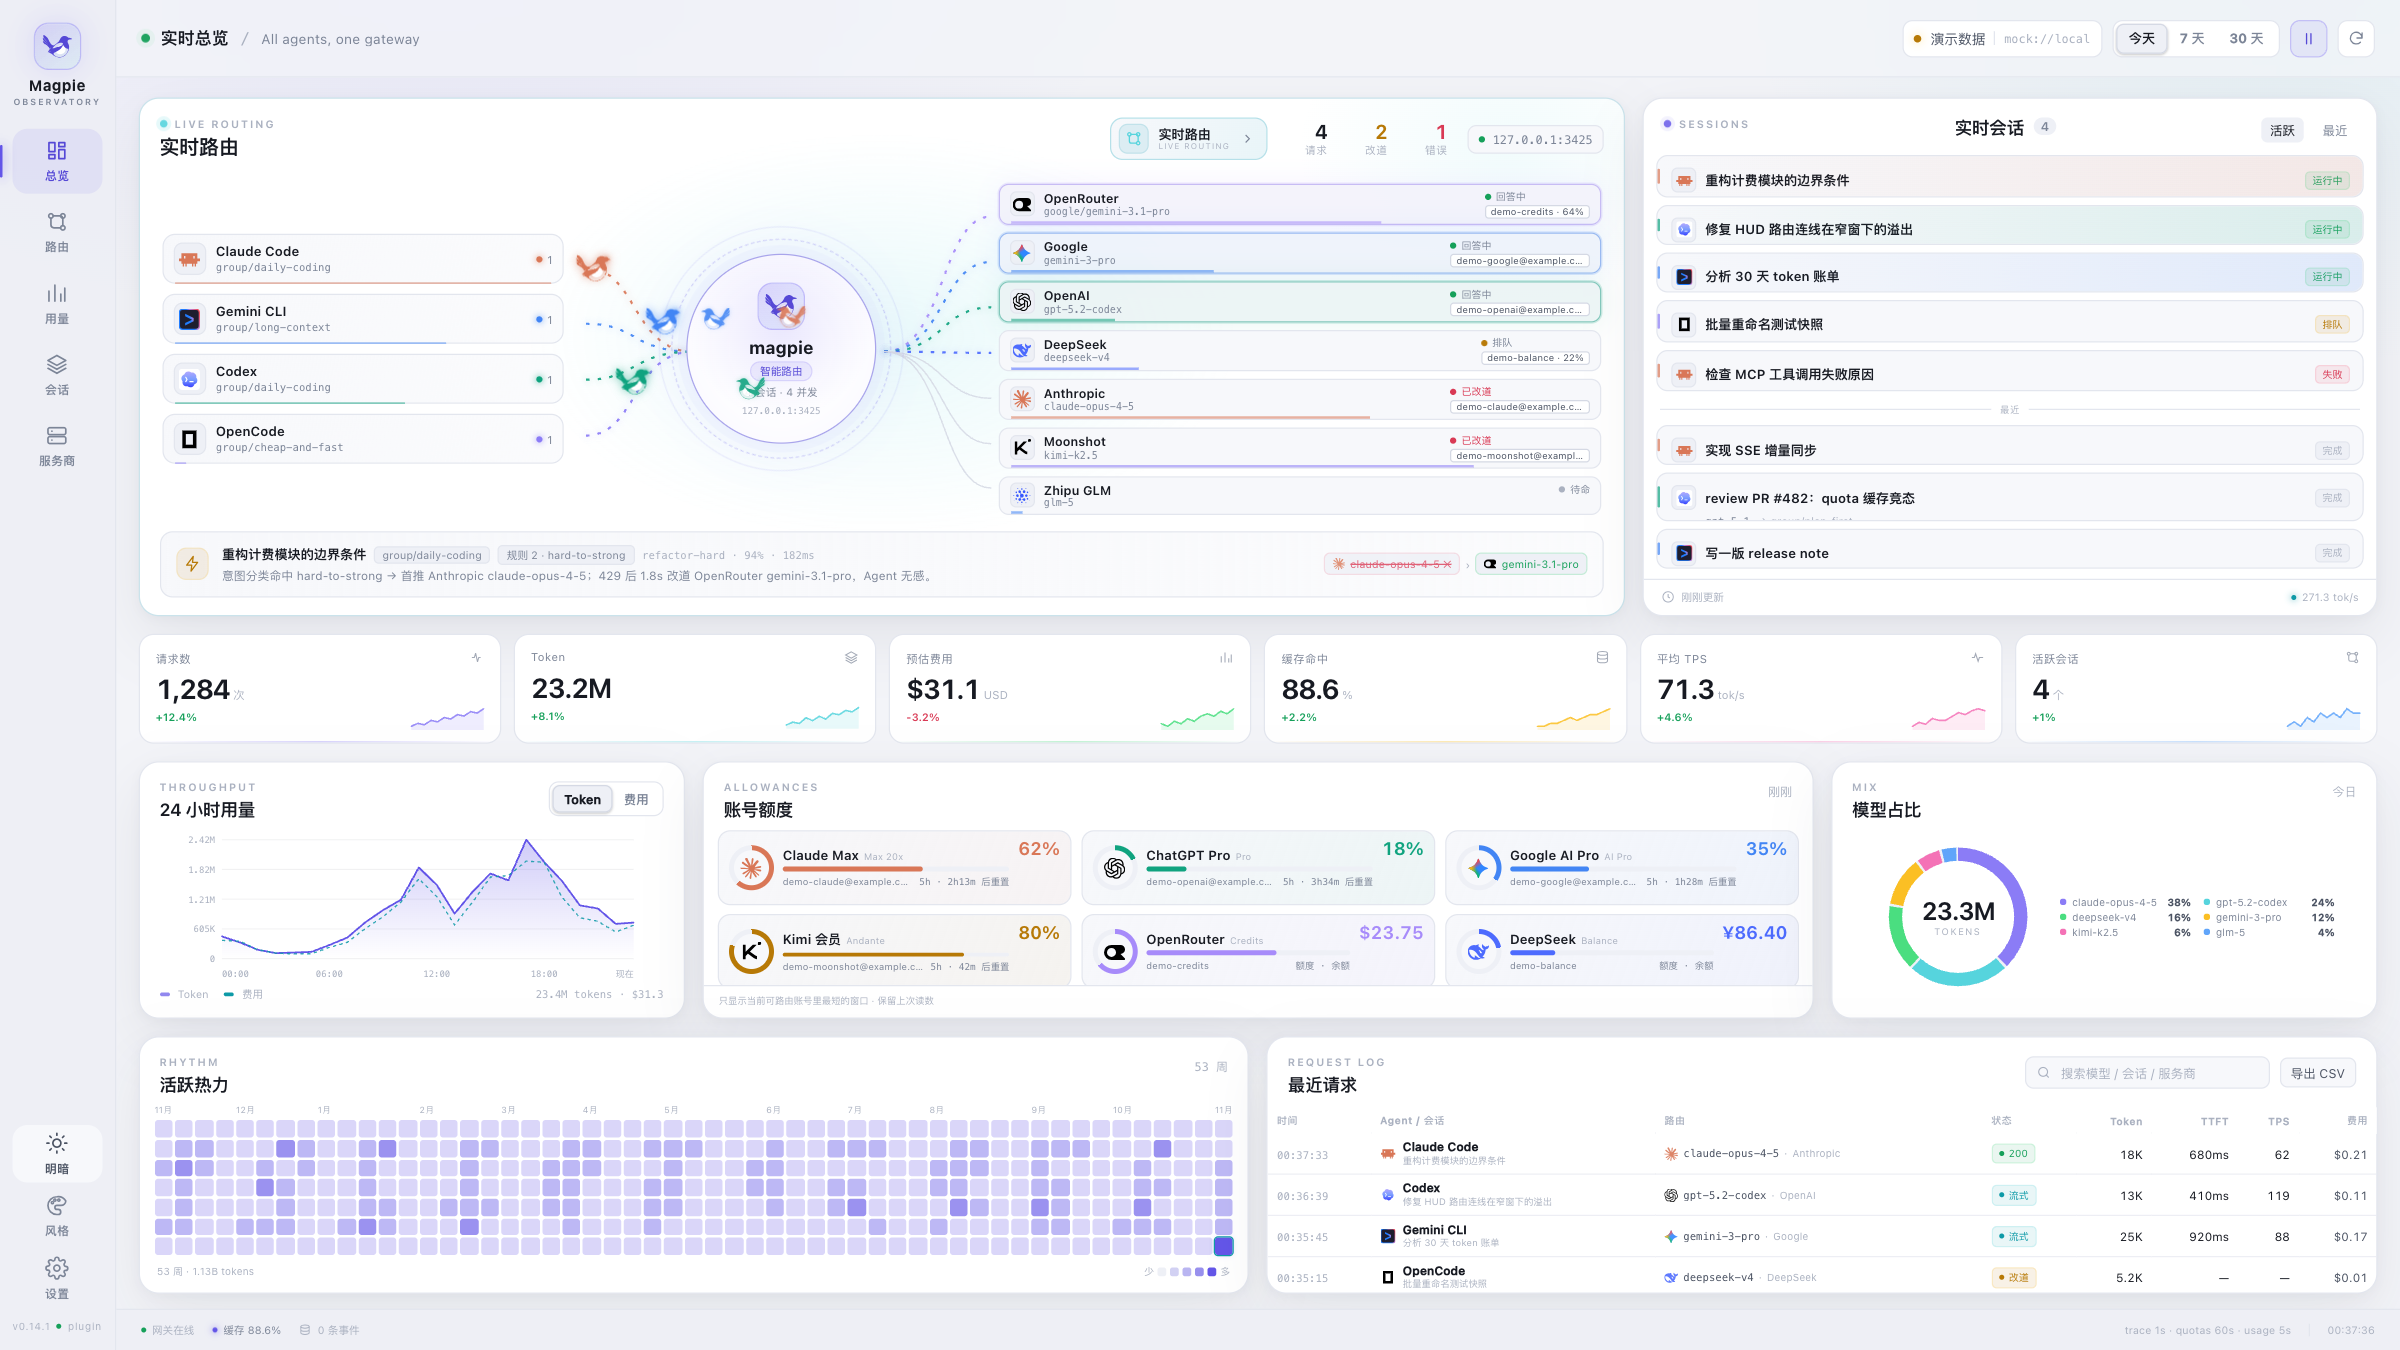
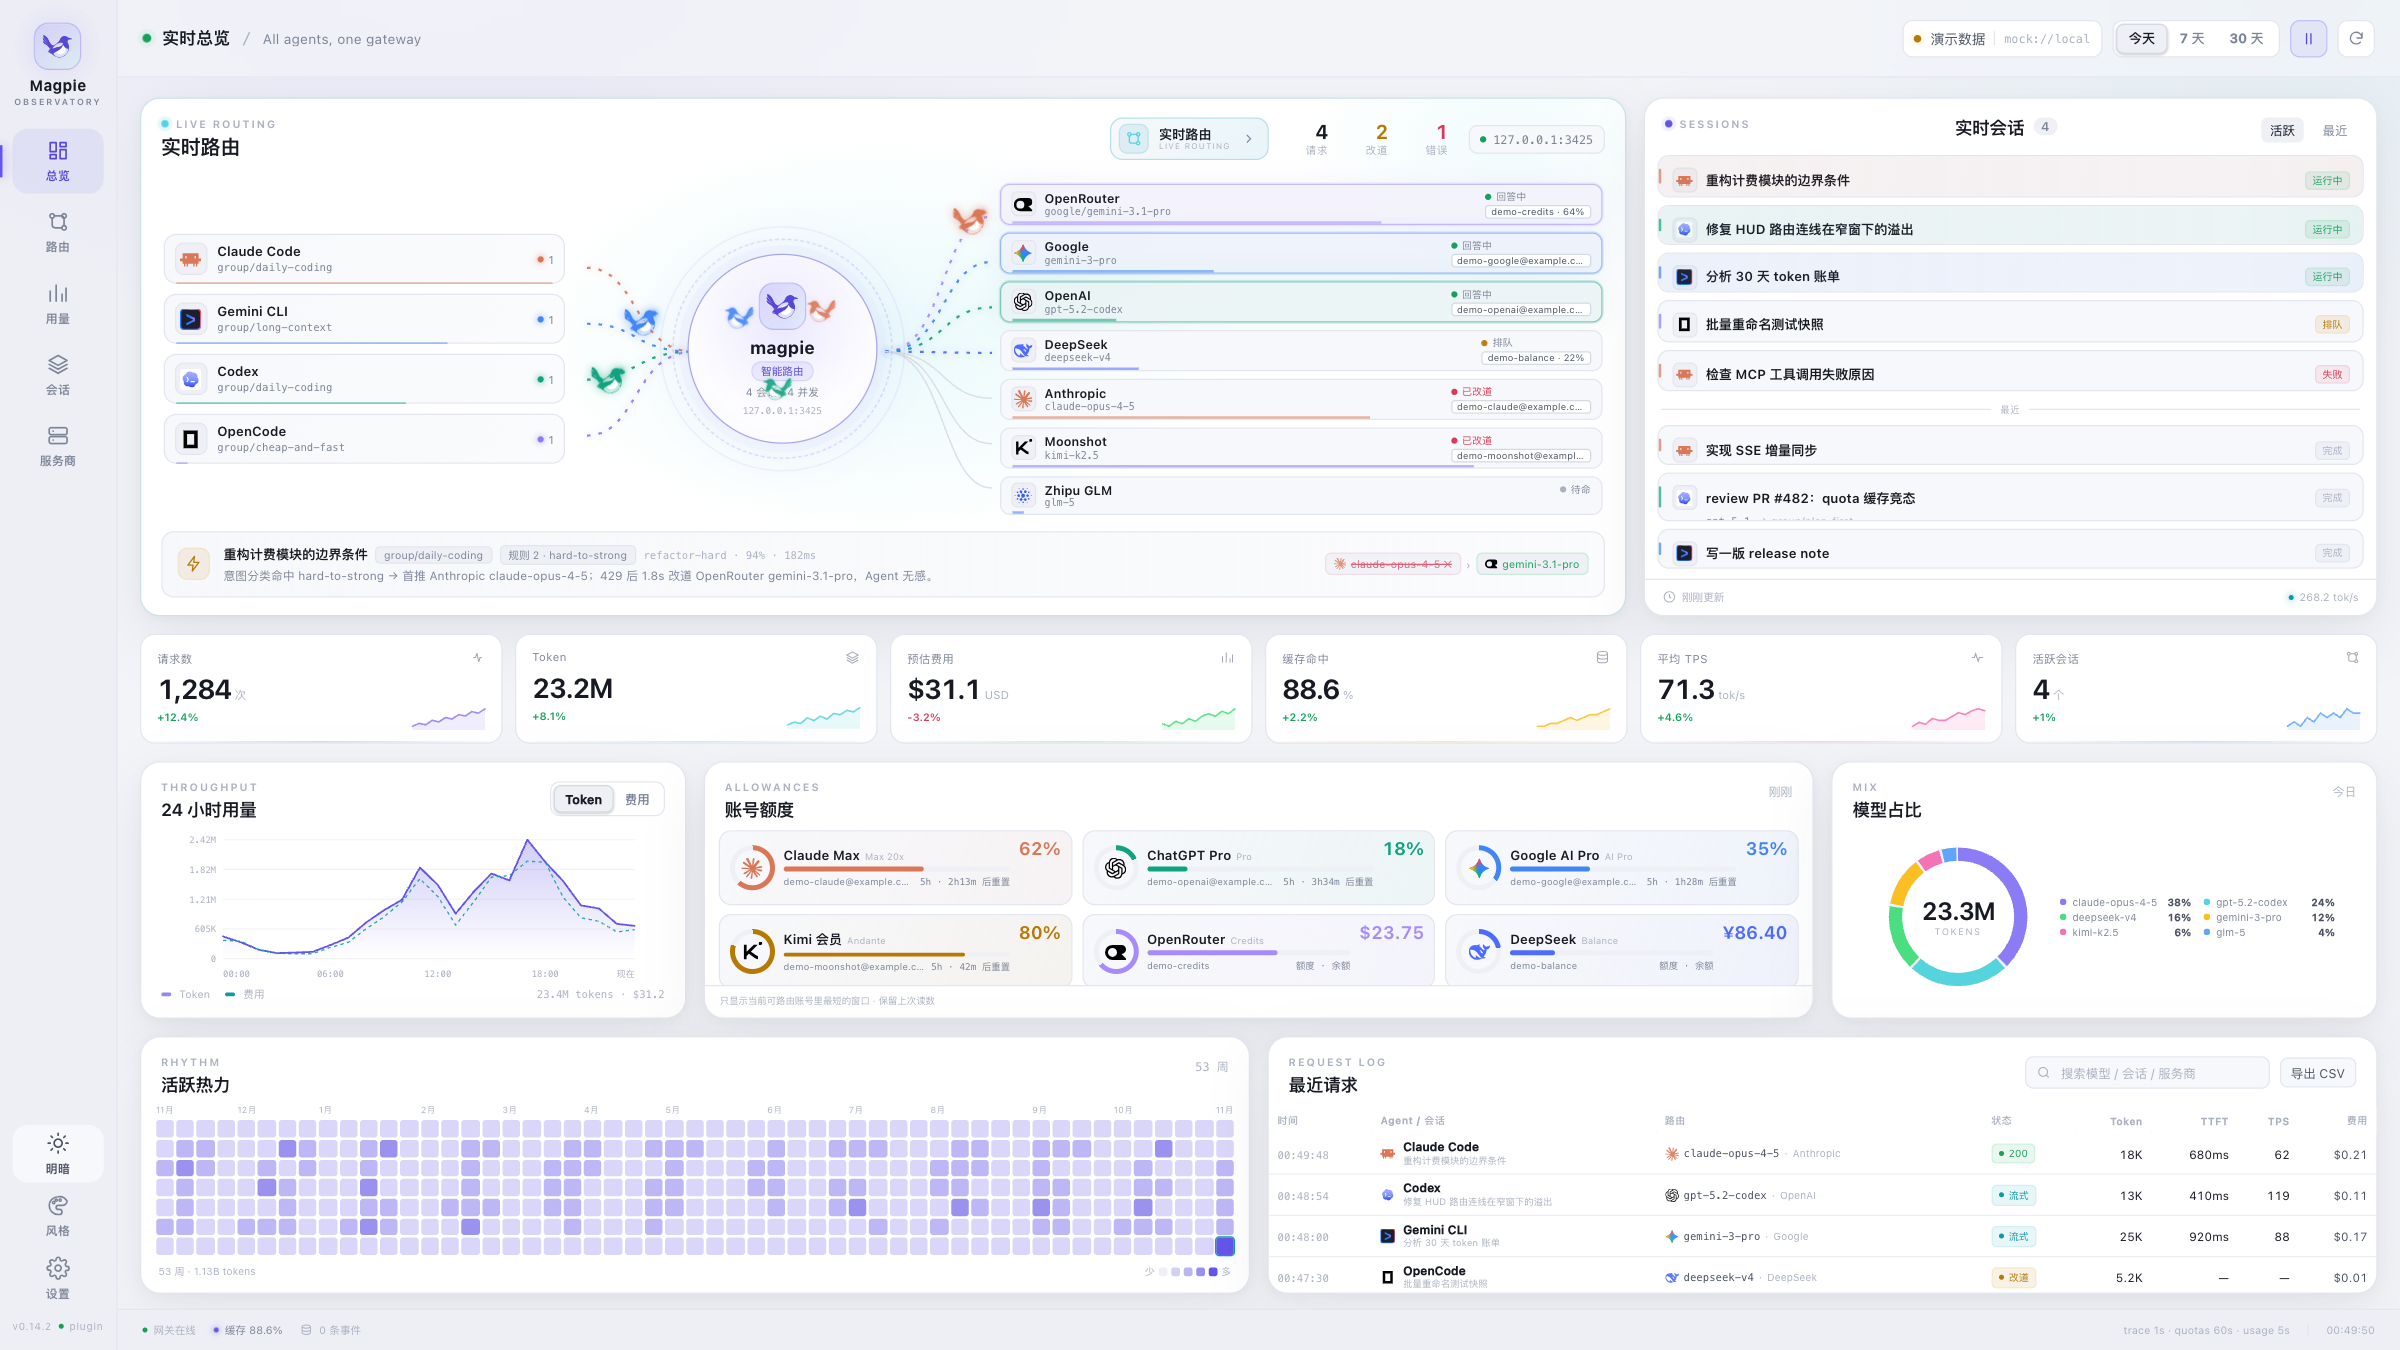
release: Magpie Observatory v0.14.2

diff --git a/public/assets/app.js b/public/assets/app.js
@@ -29,7 +29,8 @@
     tickerIndex: 0,
     lastTick: Date.now(),
     timers: [],
-    liveTimer: null
+    liveTimer: null,
+    liveBusy: false
   };
 
   const STATUS_TEXT = { streaming: "运行中", queued: "排队", done: "完成", error: "失败" };
@@ -530,6 +531,7 @@
     } else {
       positionFlights(performance.now());
     }
+    ensureFlightLoop();
   }
 
   function setFlightAt(f, t) {
@@ -545,13 +547,25 @@
   }
 
   let lastFlightFrame = 0;
+  let flightRaf = 0;
+  function flightActive() {
+    return !window.__OBS_FREEZE && !document.hidden && !state.paused &&
+      state.heroMode === "route" && document.documentElement.dataset.motion !== "off" &&
+      state.flights && state.flights.length > 0;
+  }
   function flightLoop(ts) {
-    if (window.__OBS_FREEZE) { requestAnimationFrame(flightLoop); return; }
-    if (!document.hidden && state.flights && state.flights.length && ts - lastFlightFrame > 32) {
+    flightRaf = 0;
+    if (!flightActive()) return;
+    if (ts - lastFlightFrame > 32) {
       lastFlightFrame = ts;
       positionFlights(ts);
     }
-    requestAnimationFrame(flightLoop);
+    flightRaf = requestAnimationFrame(flightLoop);
+  }
+  function ensureFlightLoop() {
+    if (flightRaf || !flightActive()) return;
+    lastFlightFrame = 0;
+    flightRaf = requestAnimationFrame(flightLoop);
   }
 
   function drawWires() {
@@ -1230,7 +1244,7 @@
       setTimeout(() => host.classList.remove("view-enter"), 340);
     }
     if (custom) { renderCustomView(mode, true); return; }
-    if (mode === "route") requestAnimationFrame(drawWires);
+    if (mode === "route") { requestAnimationFrame(drawWires); ensureFlightLoop(); }
     if (mode === "radar") renderRadarView(true);
     if (mode === "loom") renderLoomView(true);
     if (mode === "rhythm") renderRhythmView(true);
@@ -1451,6 +1465,24 @@
     }
     const max = Math.max(1, ...days.map(d => d.tokens));
     const shownWeeks = Math.ceil(days.length / 7);
+    const todayKey = new Date().toISOString().slice(0, 10);
+    const grid = $("#heat-grid");
+    const sig = `${days.length}:${window.innerWidth}:${days[0].date}:${todayKey}`;
+    // A live poll usually only moves today's cell. Rebuild 371 divs only when
+    // the calendar itself changes; otherwise patch levels/title in place.
+    if (grid.dataset.sig === sig && grid.children.length === days.length) {
+      const cells = grid.children;
+      days.forEach((d, i) => {
+        const pct = d.tokens / max;
+        const level = String(pct === 0 ? 0 : pct < .18 ? 1 : pct < .36 ? 2 : pct < .62 ? 3 : 4);
+        if (cells[i].dataset.level !== level) cells[i].dataset.level = level;
+        if (i === days.length - 1) cells[i].title = `${d.date} · ${fmtTokens(d.tokens)} tokens · ${d.calls || 0} 次调用`;
+      });
+      const total = days.reduce((a, b) => a + b.tokens, 0);
+      $("#heat-summary").textContent = `${shownWeeks} 周 · ${fmtTokens(total)} tokens`;
+      return;
+    }
+    grid.dataset.sig = sig;
     const months = [];
     let lastMonth = -1;
     for (let w = 0; w < shownWeeks; w++) {
@@ -1709,6 +1741,8 @@
       state.paused = !state.paused;
       renderMode();
       renderStatus();
+      ensureFlightLoop();
+      if (!state.paused && state.mode === "live") connectLive(true);
       toast(state.paused ? "演示已暂停" : "演示继续");
     });
 
@@ -1866,9 +1900,15 @@
     $("#log-export").addEventListener("click", () => {
       const rows = state.data.logs;
       const head = ["time", "agent", "session", "provider", "model", "status", "tokens", "ttft_ms", "tps", "cost_usd"];
+      const cell = v => {
+        let s = String(v == null ? "" : v);
+        // Do not let a ledger value become a spreadsheet formula.
+        if (/^[=+\-@]/.test(s)) s = "'" + s;
+        return `"${s.replace(/"/g, '""')}"`;
+      };
       const csv = [head.join(",")].concat(rows.map(r => [
         r.at, r.agent, r.session, r.provider, r.model, r.status, r.tokens, r.ttft, r.tps, r.cost
-      ].map(v => `"${String(v == null ? "" : v).replace(/"/g, '""')}"`).join(","))).join("\n");
+      ].map(cell).join(","))).join("\n");
       const blob = new Blob([csv], { type: "text/csv;charset=utf-8" });
       const a = document.createElement("a");
       a.href = URL.createObjectURL(blob);
@@ -1899,6 +1939,7 @@
       if (e.key.toLowerCase() === "v" && !e.metaKey && !e.ctrlKey && !e.altKey) { e.preventDefault(); toggleViewMenu(); }
     });
 
+    document.addEventListener("visibilitychange", () => { if (!document.hidden) ensureFlightLoop(); });
     let resizeTimer = null;
     window.addEventListener("resize", () => {
       clearTimeout(resizeTimer);
@@ -1930,7 +1971,9 @@
 
   /* ----------------------------------------------------------------- live --- */
   async function connectLive(silent) {
-    if (silent && document.hidden) return;
+    if (state.liveBusy) return;
+    if (silent && (document.hidden || state.paused)) return;
+    state.liveBusy = true;
     try {
       if (!silent) toast("正在连接 Magpie…");
       const period = state.range === "7d" ? "week" : state.range === "30d" ? "month" : "today";
@@ -1966,6 +2009,8 @@
           toast("实时连接中断，保留最后一次快照");
         }
       }
+    } finally {
+      state.liveBusy = false;
     }
   }
 
@@ -1993,6 +2038,7 @@
     syncSettingsMenu();
     renderAll();
     requestAnimationFrame(drawWires);
+    ensureFlightLoop();
     const names = { layout: { auto: "自动", fit: "一屏", comfort: "舒展" }, density: { compact: "紧凑", cozy: "标准", spacious: "宽松" }, motion: { full: "全部", soft: "轻柔", off: "关闭" } };
     const fallback = kind === "layout" && value === "fit" && (window.innerWidth < 1200 || window.innerHeight < 900);
     toast((kind === "layout" ? "布局：" : kind === "density" ? "密度：" : "动效：") + ((names[kind] || {})[value] || value)
@@ -2030,7 +2076,7 @@
 
   /* ------------------------------------------------------------------ init --- */
   function init() {
-    try { console.info("%c Magpie Observatory v0.14.1 · twenty-one views · 4 styles · layout settings", "color:#8b7cf6;font-weight:bold"); } catch (_) {}
+    try { console.info("%c Magpie Observatory v0.14.2 · twenty-one views · 4 styles · layout settings", "color:#8b7cf6;font-weight:bold"); } catch (_) {}
     try {
       const hostTheme = new URLSearchParams(location.search).get("hostTheme");
       if (hostTheme === "light" || hostTheme === "dark") {
@@ -2069,7 +2115,7 @@
       }));
       renderQuotas();
     }, 60000);
-    requestAnimationFrame(flightLoop);
+    ensureFlightLoop();
     // A small delayed redraw catches web-font/layout settling.
     setTimeout(() => { renderTrend(); drawWires(); }, 120);
   }

diff --git a/public/index.html b/public/index.html
@@ -71,7 +71,7 @@
       <button class="nav-item" id="theme-toggle" title="明暗模式"><svg class="icon-moon"><use href="#i-moon"/></svg><svg class="icon-sun"><use href="#i-sun"/></svg><span>明暗</span></button>
       <button class="nav-item" id="style-toggle" title="界面风格"><svg><use href="#i-palette"/></svg><span>风格</span></button>
       <button class="nav-item" id="settings-toggle" title="布局与动效"><svg><use href="#i-settings"/></svg><span>设置</span></button>
-      <div class="rail-version">v0.14.1 <i></i> plugin</div>
+      <div class="rail-version">v0.14.2 <i></i> plugin</div>
     </div>
   </aside>
 

diff --git a/docs/publishing.md b/docs/publishing.md
@@ -94,7 +94,7 @@ The script:
 2. initializes `main` if needed, commits the working tree;
 3. creates the public repository if it does not exist, otherwise pushes;
 4. adds all store topics with `gh repo edit --add-topic`;
-5. creates the annotated tag `v0.14.1` and pushes it.
+5. creates the annotated tag `v0.14.2` and pushes it.
 
 Manual equivalent:
 
@@ -103,7 +103,7 @@ git init -b main
 git config user.name "JohnWangggg"
 git config user.email "JohnWangggg@users.noreply.github.com"
 git add -A
-git commit -m "release: Magpie Observatory v0.14.1"
+git commit -m "release: Magpie Observatory v0.14.2"
 gh repo create JohnWangggg/magpie-observatory --public --source=. --remote=origin --push
 gh api --method PUT repos/JohnWangggg/magpie-observatory/topics \
   -f 'names[]=magpie-plugin' \
@@ -113,7 +113,7 @@ gh api --method PUT repos/JohnWangggg/magpie-observatory/topics \
   -f 'names[]=dashboard' \
   -f 'names[]=monitoring' \
   -f 'names[]=llm-gateway'
-git tag -a v0.14.1 -m "Magpie Observatory v0.14.1"
+git tag -a v0.14.2 -m "Magpie Observatory v0.14.2"
 git push -u origin main --tags
 ```
 
@@ -138,12 +138,12 @@ under **Plugins → Installed** with an **Observatory** tab.
 Release tags are annotated and match `package.json`:
 
 ```bash
-git tag -a v0.14.1 -m "Magpie Observatory v0.14.1"
-git push origin v0.14.1
+git tag -a v0.14.2 -m "Magpie Observatory v0.14.2"
+git push origin v0.14.2
 ```
 
 For the next release, bump `package.json`, update the tag in
-`scripts/publish-github.sh` (or pass `TAG=v0.14.1`), and repeat.
+`scripts/publish-github.sh` (or pass `TAG=v0.14.2`), and repeat.
 
 发布标签使用 annotated tag，并与 `package.json` 版本一致。下一次发布时提升版本号，
-再用 `TAG=v0.14.1 bash scripts/publish-github.sh` 或手动打标签。
+再用 `TAG=v0.14.2 bash scripts/publish-github.sh` 或手动打标签。
